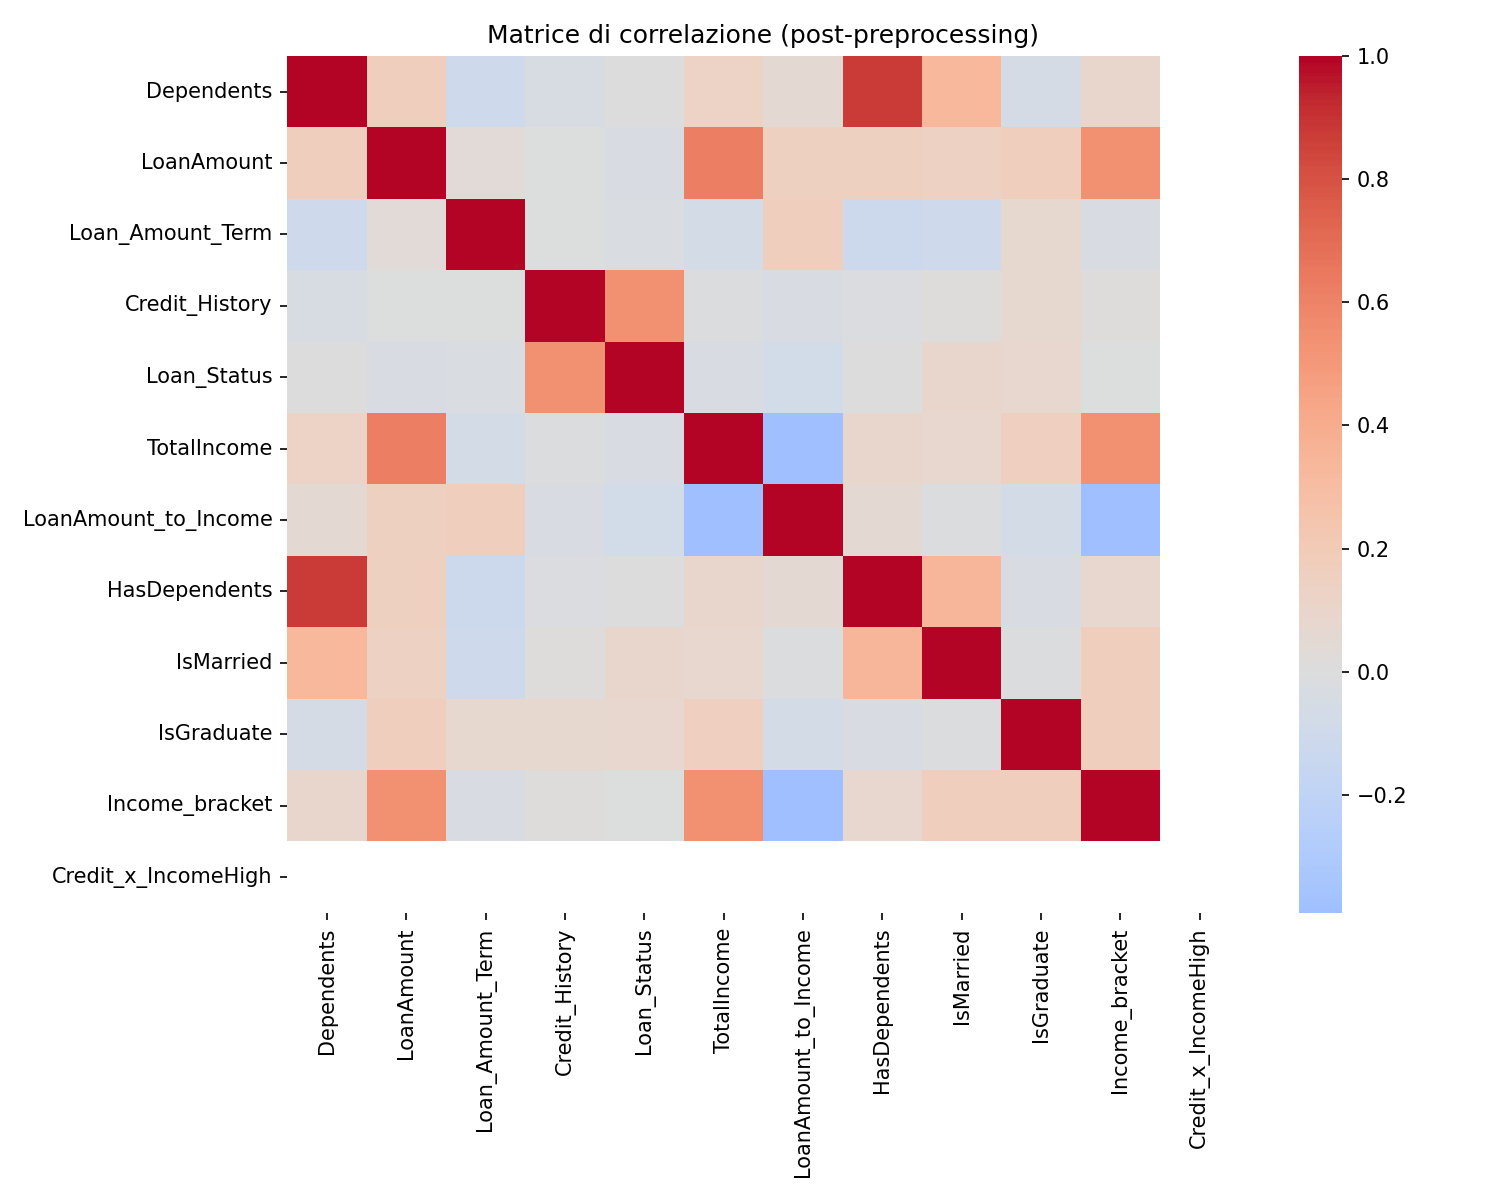
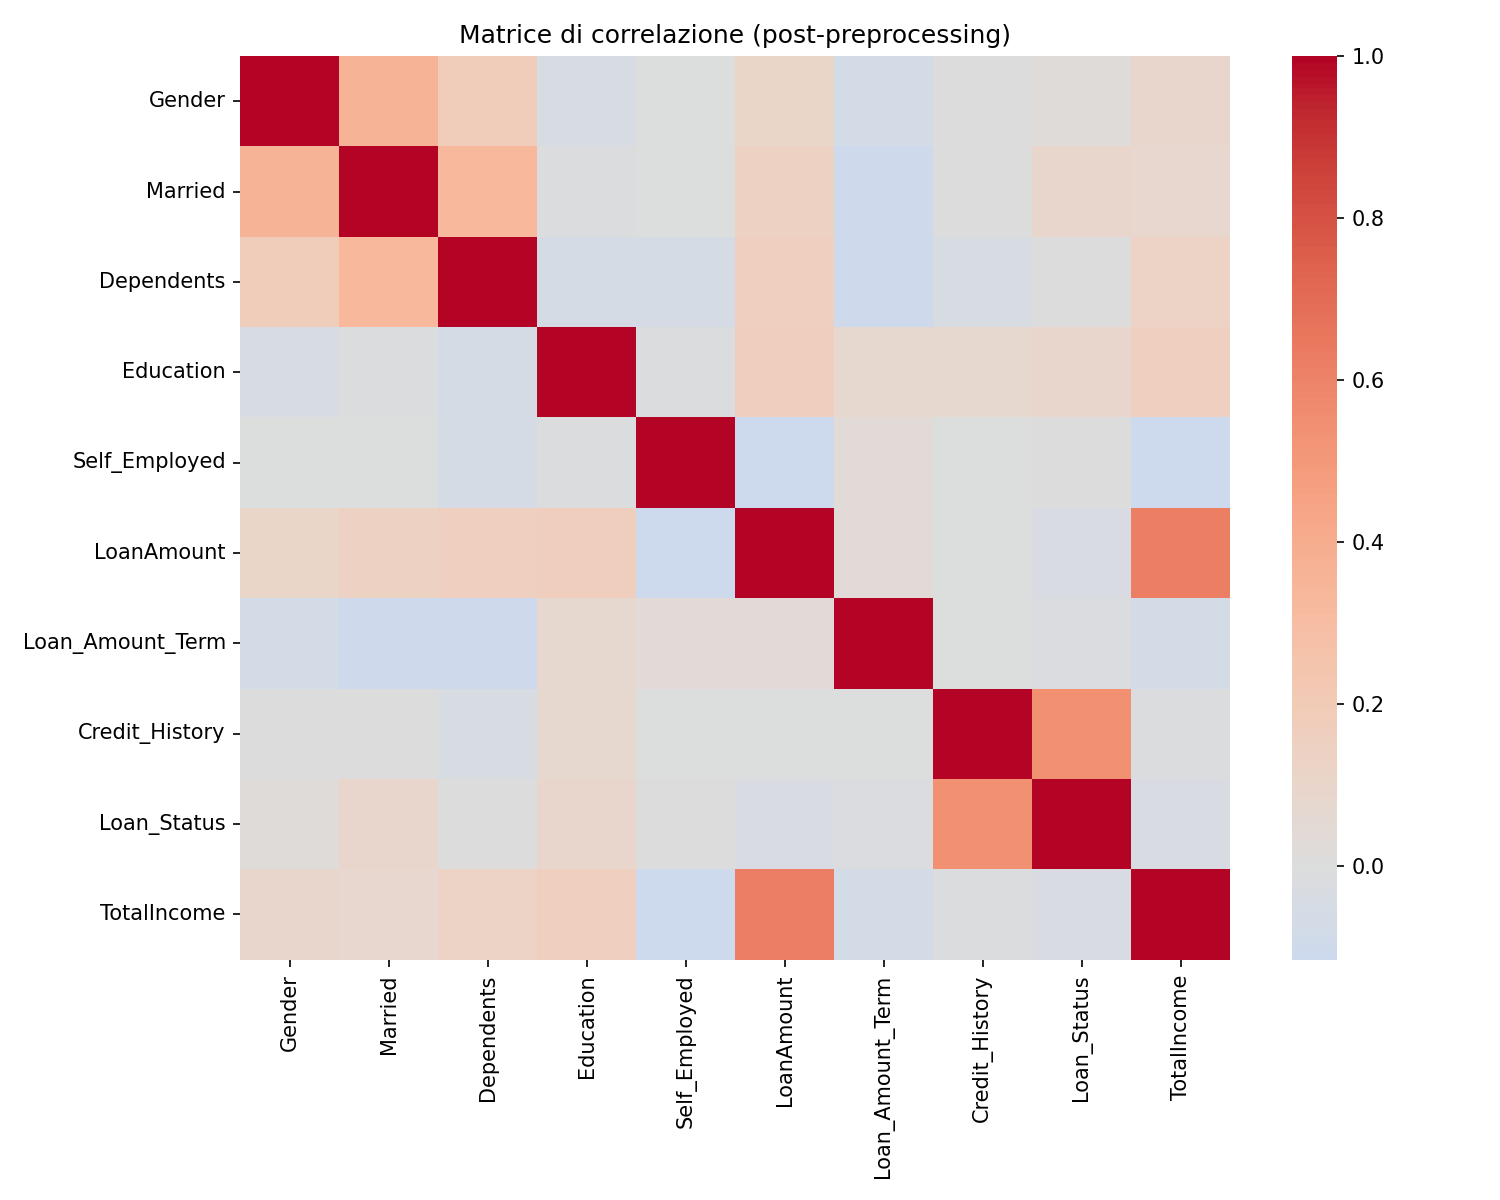
Fixed CrossValidator.py. Now we're saving the model validated with cross_validation

diff --git a/classes/CrossValidator.py b/classes/CrossValidator.py
@@ -1,58 +1,82 @@
 import pandas as pd
-from sklearn.model_selection import cross_validate, StratifiedKFold
+from sklearn.model_selection import StratifiedKFold
+from sklearn.base import clone
+from sklearn.metrics import accuracy_score, roc_auc_score
 
 class CrossValidator:
     def __init__(self, model, cv=5, scoring=None, random_state=42):
         """
-        Inizializza il validatore incrociato.
-
-        Args:
-            model: Un modello scikit-learn o un KerasClassifier/Regressor.
-            cv (int): Numero di fold per la cross-validation.
-            scoring (list or str): Metriche da calcolare (es. ['accuracy', 'roc_auc']).
-                                   Se None, usa ['accuracy', 'roc_auc'].
-            random_state (int): Seme per la riproducibilità.
+        Valida un modello tramite cross-validation e permette
+        di ottenere il miglior modello allenato tra i vari fold.
         """
         self.model = model
         self.cv = cv
         self.scoring = scoring if scoring is not None else ['accuracy', 'roc_auc']
         self.random_state = random_state
+
         self.cv_results_ = None
+        self.fitted_models = []   # ⭐ Modelli dei fold (ESSENZIALE)
 
     def validate(self, X, y):
         """
-        Esegue la cross-validation.
-
-        Args:
-            X (np.array or pd.DataFrame): Features.
-            y (np.array or pd.Series): Target.
-
-        Returns:
-            self: Restituisce l'oggetto validatore con i risultati.
+        Esegue la cross-validation manualmente, salvando i modelli
+        addestrati in ogni fold così da poter selezionare il migliore.
         """
-        # Usa StratifiedKFold per mantenere la distribuzione del target
-        cv_splitter = StratifiedKFold(n_splits=self.cv, shuffle=True, random_state=self.random_state)
-
-        print(f"Esecuzione di {self.cv}-Fold Cross-Validation...")
-        self.cv_results_ = cross_validate(
-            estimator=self.model,
-            X=X, y=y,
-            cv=cv_splitter,
-            scoring=self.scoring,
-            return_train_score=True, # Opzionale: restituisce anche i punteggi di training
-            n_jobs=-1 # Usa tutti i core disponibili
+        cv_splitter = StratifiedKFold(
+            n_splits=self.cv,
+            shuffle=True,
+            random_state=self.random_state
         )
 
-        # Calcola e stampa le medie e le deviazioni standard
-        print(f"\n--- Risultati {self.cv}-Fold Cross-Validation ---")
+        # Dizionario risultati per ogni metrica
+        self.cv_results_ = {f"test_{metric}": [] for metric in self.scoring}
+        self.fitted_models = []  # reset
+
+        print(f"Esecuzione di {self.cv}-Fold Cross-Validation...")
+
+        for fold_idx, (train_idx, val_idx) in enumerate(cv_splitter.split(X, y), 1):
+            print(f"\n🔹 Fold {fold_idx}/{self.cv}")
+
+            # Split
+            X_train_fold, X_val_fold = X.iloc[train_idx], X.iloc[val_idx]
+            y_train_fold, y_val_fold = y.iloc[train_idx], y.iloc[val_idx]
+
+            # Clona il modello (fonda essenziale per modelli indipendenti tra fold)
+            model_clone = clone(self.model)
+
+            # Addestramento
+            model_clone.fit(X_train_fold, y_train_fold)
+
+            # ⭐ Salviamo il modello del fold
+            self.fitted_models.append(model_clone)
+
+            # Predizione probabilità (se disponibile)
+            if hasattr(model_clone, "predict_proba"):
+                y_prob = model_clone.predict_proba(X_val_fold)[:, 1]
+            else:
+                # fallback per modelli senza predict_proba
+                y_prob = model_clone.predict(X_val_fold)
+
+            # Predizione classi
+            y_pred = model_clone.predict(X_val_fold)
+
+            # Calcolo metriche
+            if "accuracy" in self.scoring:
+                acc = accuracy_score(y_val_fold, y_pred)
+                self.cv_results_["test_accuracy"].append(acc)
+
+            if "roc_auc" in self.scoring:
+                try:
+                    auc = roc_auc_score(y_val_fold, y_prob)
+                except:
+                    auc = 0.0
+                self.cv_results_["test_roc_auc"].append(auc)
+
+        # Stampa riepilogo
+        print("\n--- Risultati Cross-Validation ---")
         for metric in self.scoring:
-            train_key = f'train_{metric}'
-            test_key = f'test_{metric}'
-            if train_key in self.cv_results_:
-                train_scores = self.cv_results_[train_key]
-                print(f"Mean {metric} (Train): {train_scores.mean():.4f} (+/- {train_scores.std() * 2:.4f})")
-            test_scores = self.cv_results_[test_key]
-            print(f"Mean {metric} (Test): {test_scores.mean():.4f} (+/- {test_scores.std() * 2:.4f})")
+            scores = self.cv_results_[f"test_{metric}"]
+            print(f"{metric}: mean={pd.Series(scores).mean():.4f}, std={pd.Series(scores).std():.4f}")
 
         return self
 
@@ -61,19 +85,11 @@ class CrossValidator:
         return self.cv_results_
 
     def get_mean_test_scores(self):
-        """Restituisce un dizionario con le medie dei punteggi di test per ogni metrica."""
-        mean_scores = {}
-        for metric in self.scoring:
-            test_key = f'test_{metric}'
-            if test_key in self.cv_results_:
-                mean_scores[metric] = self.cv_results_[test_key].mean()
-        return mean_scores
+        """Restituisce le medie delle metriche sui fold."""
+        return {metric: pd.Series(self.cv_results_[f"test_{metric}"]).mean()
+                for metric in self.scoring}
 
     def get_std_test_scores(self):
-        """Restituisce un dizionario con le deviazioni standard dei punteggi di test per ogni metrica."""
-        std_scores = {}
-        for metric in self.scoring:
-            test_key = f'test_{metric}'
-            if test_key in self.cv_results_:
-                std_scores[metric] = self.cv_results_[test_key].std()
-        return std_scores
+        """Restituisce le deviazioni standard delle metriche sui fold."""
+        return {metric: pd.Series(self.cv_results_[f"test_{metric}"]).std()
+                for metric in self.scoring}

diff --git a/main.py b/main.py
@@ -183,11 +183,31 @@ def main():
     #         print(f"\n🔍 {col} → {X_train[col].unique()[:10]}")
 
     # --- STEP 6: Addestramento Logistic Regression ==========================
-    print("\n--- Addestramento Logistic Regression ---")
-    logreg_model = LogisticRegressionModel(model_dir="model")
-    logreg_model.train(X_train, y_train)
-    y_pred_lr, y_prob_lr = logreg_model.predict(X_val)
-    logreg_model.save_model()
+    print("\n--- Logistic Regression: Cross-Validation (Train Set) ---")
+
+    logreg_base = LogisticRegressionModel(model_dir="model")
+
+    cv_lr = CrossValidator(
+        model=logreg_base.model,
+        cv=5,
+        scoring=['accuracy', 'roc_auc']
+    )
+
+    cv_lr.validate(X_train, y_train)
+
+    # Seleziona il modello migliore (in base all'AUC)
+    best_idx_lr = np.argmax(cv_lr.cv_results_['test_roc_auc'])
+    best_lr_model = cv_lr.fitted_models[best_idx_lr]
+
+    print(f"🎯 Miglior modello LR è il fold #{best_idx_lr} con AUC={cv_lr.cv_results_['test_roc_auc'][best_idx_lr]:.4f}")
+
+    # --- SALVA IL MODELLO SCELTO DALLA CROSS ---
+    joblib.dump(best_lr_model, os.path.join(model_dir, "logistic_regression_model.pkl"))
+    print("💾 Logistic Regression salvato (best fold dalla cross validation).")
+
+    # --- Predizioni sul validation set usando il modello migliore ---
+    y_prob_lr = best_lr_model.predict_proba(X_val)[:, 1]
+    y_pred_lr = (y_prob_lr > 0.5).astype(int)
 
     # --- STEP 7: Valutazione Logistic Regression (Test Set) =================
     print("\n🔍 Valutazione Logistic Regression (Test Set):")
@@ -199,12 +219,7 @@ def main():
     )
     metrics_lr = evaluator_lr.evaluate() # Ottieni i risultati per il confronto
 
-    # --- STEP 8: Cross-Validation Logistic Regression (su Train Set) ========
-    print("\n🔍 Cross-Validation Logistic Regression (Train Set):")
-    cv_lr = CrossValidator(model=logreg_model.model, cv=5, scoring=['accuracy', 'roc_auc'])
-    cv_lr.validate(X_train, y_train)
-    cv_results_lr = cv_lr.get_mean_test_scores()
-    print(f"Mean CV Accuracy: {cv_results_lr['accuracy']:.4f}, Mean CV AUC: {cv_results_lr['roc_auc']:.4f}")
+
 
 
     # --- STEP 9: Addestramento Rete Neurale Keras ===========================
@@ -252,23 +267,33 @@ def main():
     # Per ora, saltiamo la CV per Keras per semplicità, a meno che tu non implementi il wrapper scikeras.
 
     # --- STEP 12: Addestramento XGBoost ====================================
-    print("\n--- Addestramento XGBoost ---")
-    xgb_model = XGBoostModel(model_dir="model")
-    xgb_model.train(
-        X_train=X_train,
-        y_train=y_train,
-        X_val=X_val,
-        y_val=y_val,
-        n_estimators=100, # Esempio di iperparametro
-        learning_rate=0.1,
-        max_depth=6
-        # scale_pos_weight viene calcolato automaticamente in train()
-    )
-    xgb_model.save_model()
 
-    # Predizioni XGBoost
-    y_prob_xgb = xgb_model.predict(X_val)
-    y_pred_xgb = xgb_model.predict_classes(X_val)
+    print("\n--- XGBoost: Cross-Validation (Train Set) ---")
+
+    xgb_base = XGBoostModel(model_dir="model")
+
+    cv_xgb = CrossValidator(
+        model=xgb_base.model,
+        cv=5,
+        scoring=['accuracy', 'roc_auc']
+    )
+
+    cv_xgb.validate(X_train, y_train)
+
+    # scegliamo il modello migliore sui fold
+    best_idx_xgb = np.argmax(cv_xgb.cv_results_['test_roc_auc'])
+    best_xgb_model = cv_xgb.fitted_models[best_idx_xgb]
+
+    print(f"🎯 Miglior XGBoost fold = {best_idx_xgb}, AUC = {cv_xgb.cv_results_['test_roc_auc'][best_idx_xgb]:.4f}")
+
+    # --- SALVA IL MIGLIOR MODELLO ---
+    best_xgb_model.save_model('xgboost_model.json')
+    print("💾 XGBoost salvato (best fold dalla cross validation).")
+
+    # --- Predizioni ---
+    y_prob_xgb = best_xgb_model.predict(X_val)
+    y_pred_xgb = (y_prob_xgb > 0.5).astype(int)
+
 
     # --- STEP 13: Valutazione XGBoost (Test Set) ============================
     print("\n🔍 Valutazione XGBoost (Test Set):")
@@ -279,13 +304,6 @@ def main():
         model_name="XGBoost"
     )
     metrics_xgb = evaluator_xgb.evaluate() # Ottieni i risultati per il confronto
-
-    # --- STEP 14: Cross-Validation XGBoost (su Train Set) ===================
-    print("\n🔍 Cross-Validation XGBoost (Train Set):")
-    cv_xgb = CrossValidator(model=xgb_model.model, cv=5, scoring=['accuracy', 'roc_auc'])
-    cv_xgb.validate(X_train, y_train)
-    cv_results_xgb = cv_xgb.get_mean_test_scores()
-    print(f"Mean CV Accuracy: {cv_results_xgb['accuracy']:.4f}, Mean CV AUC: {cv_results_xgb['roc_auc']:.4f}")
 
 
     # --- STEP 15: Confronto Finale Modelli (Test Set) =======================
@@ -329,7 +347,7 @@ def main():
     # Logistic Regression
     print("🔍 Analizzando importanza features Logistic Regression...")
     lr_importance = feature_analyzer.analyze_logistic_regression_importance(
-        logreg_model.model, feature_names, X_val, y_val
+        best_lr_model, feature_names, X_val, y_val
     )
     importance_results['Logistic Regression'] = lr_importance
     if lr_importance is not None:
@@ -339,7 +357,7 @@ def main():
     # XGBoost
     print("🔍 Analizzando importanza features XGBoost...")
     xgb_importance = feature_analyzer.analyze_xgboost_importance(
-        xgb_model.model, feature_names
+        best_xgb_model, feature_names
     )
     importance_results['XGBoost'] = xgb_importance
     if xgb_importance is not None:
